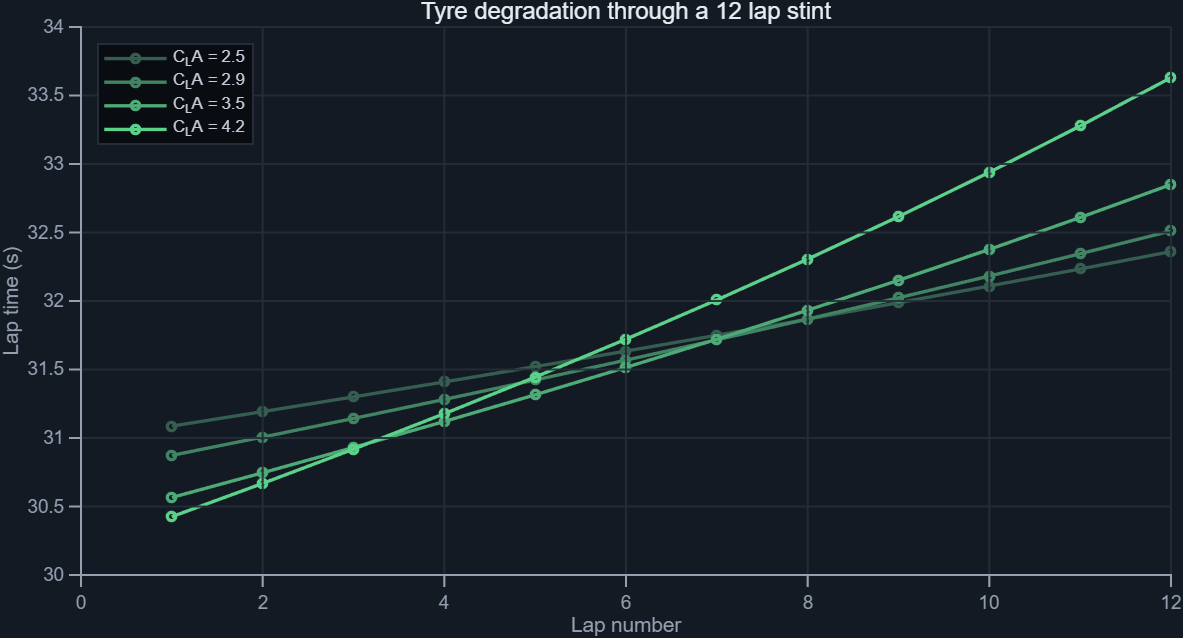
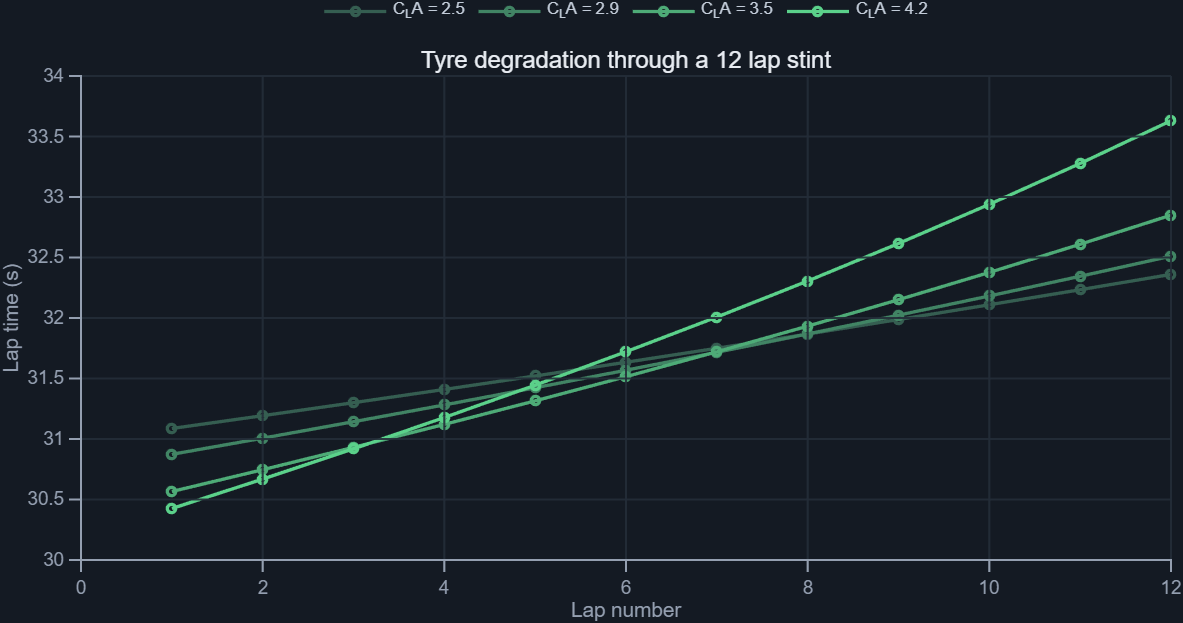
Fix coursework accent clash, move keys off the plots, new flume thumbnail
Three faults, all visible once the pages were rendered rather than
reasoned about.

Coursework accent clashed with the text
#E7E0CF sat 37 units from the body text at #E8ECF2, which is not a
distinguishable difference. On that page links, tags and the
availability bar were effectively the same colour as the prose, so the
page had no accent at all, and the Karman-Trefftz figures came out
washed out because their line colours derive from it. Replaced with a
rose, #F48FB1: 114 from the text and 89 from the nearest other accent,
clearing AA on both surfaces and for ink on the fill.

Keys sat on top of the data
The degradation chart put its legend over the scatter it described,
hiding points behind an opaque box. loc="best" does not fix this; on a
dense scatter it only finds the least-bad overlap. Legends now sit
above the axes, outside the data area, where they cannot collide and
cannot drift onto the data when the numbers change. The frame goes
with them, since outside the plot it only adds a line. Title padding
is increased wherever a key is placed, or the two overlap instead.
Same change in MATLAB via northoutside.

Flume thumbnail
It was a frame of annotated rod footage, chosen for the tracker
overlay rather than for being legible at card size, and it was murky.
Replaced with a photograph of the flume itself: water surface,
entrained bubbles, a green marker sphere mid-channel. Pulled from the
sharpest frame of the source footage, chosen on a Laplacian variance
[…]

diff --git a/index.html b/index.html
@@ -112,7 +112,7 @@
 
       <a class="card" href="flume.html">
         <div class="card-media">
-          <span class="badge ghost">Video &amp; code</span><img src="media/thumbs/flume.jpg" alt="A rod tracked through the flume, with the fitted quadrilateral and centre marker drawn by the tracker" width="800" height="450"></div>
+          <span class="badge ghost">Video &amp; code</span><img src="media/thumbs/flume.jpg" alt="Water flowing through the laboratory flume, with a green marker sphere mid-channel and bubbles entrained below the surface" width="800" height="450"></div>
         <div class="card-body">
           <h3>Tracking Plastics in Moving Water</h3>
           <p>Individual Master's research project, graded 75%. A Python and OpenCV measurement system turning high-speed footage of plastic particles into validated trajectory data, at 98.4% detection coverage and 1.5 mm positional accuracy across 58 runs. Roughly 9,400 lines of published code.</p>
@@ -200,7 +200,7 @@
 
       <a class="card" href="flume.html">
         <div class="card-media">
-          <span class="badge ghost">Video &amp; code</span><img src="media/thumbs/flume.jpg" alt="A rod tracked through the flume, with the fitted quadrilateral and centre marker drawn by the tracker" loading="lazy" width="800" height="450"></div>
+          <span class="badge ghost">Video &amp; code</span><img src="media/thumbs/flume.jpg" alt="Water flowing through the laboratory flume, with a green marker sphere mid-channel and bubbles entrained below the surface" loading="lazy" width="800" height="450"></div>
         <div class="card-body">
           <h3>Tracking Plastics in Moving Water</h3>
           <p>Individual Master's research project, graded 75%. A Python and OpenCV measurement system converting high-speed footage of plastic particles in a flume into validated trajectory and velocity data.</p>

diff --git a/style.css b/style.css
@@ -89,7 +89,7 @@
 [data-accent="fs"]         { --accent: #5BD18A; --accent-wash: rgba(91,209,138,0.10); }
 [data-accent="uav"]        { --accent: #8FA6FF; --accent-wash: rgba(143,166,255,0.10); }
 [data-accent="internship"] { --accent: #C98BFF; --accent-wash: rgba(201,139,255,0.10); }
-[data-accent="coursework"] { --accent: #E7E0CF; --accent-wash: rgba(231,224,207,0.10); }
+[data-accent="coursework"] { --accent: #F48FB1; --accent-wash: rgba(244,143,177,0.10); }
 
 html { scroll-behavior: smooth; }
 

diff --git a/code/f1-lapsim/f1_lap_model.py b/code/f1-lapsim/f1_lap_model.py
@@ -58,7 +58,7 @@ import fastf1
 import sys as _sys
 _sys.path.insert(0, str(Path(__file__).resolve().parent.parent))
 from site_palette import (P, accent, series, use_site_style, cmap_accent,
-                          cmap_diverging, shades)
+                          cmap_diverging, shades, finish, legend_above)
 use_site_style()
 
 warnings.filterwarnings("ignore")
@@ -264,14 +264,14 @@ def main():
     ax.set_ylabel("Speed (km/h)"); ax.set_ylim(0, 340)
     ax.set_title(f"{YEAR} {ses.event['EventName']}: model against measured pole lap "
                  f"({real_time:.3f} s actual, {model_time:.3f} s predicted)")
-    ax.legend(loc="lower right", fontsize=9); ax.grid(alpha=0.3)
+    legend_above(ax, ncol=3); ax.grid(alpha=0.3)
 
     ax2 = axes[1]
     ax2.plot(d, tel["Throttle"], color=series(5), lw=1.2, label="Throttle (%)")
     ax2.plot(d, tel["Brake"] * 100, color=accent("f1"), lw=1.2, label="Brake (on/off)")
     ax2.fill_between(d, 0, 100, where=(drs > 0), color=accent("site"), alpha=0.28, label="DRS open")
     ax2.set_xlabel("Distance around lap (m)"); ax2.set_ylabel("Driver inputs")
-    ax2.set_xlim(d[0], d[-1]); ax2.legend(loc="lower right", fontsize=8, ncol=3); ax2.grid(alpha=0.3)
+    ax2.set_xlim(d[0], d[-1]); legend_above(ax2, ncol=3, fontsize=8); ax2.grid(alpha=0.3)
     fig.tight_layout(); fig.savefig(FIGS / "f1-speed-trace.png", dpi=150); plt.close(fig)
 
     # ---------------- Figure 2: corner speeds + gear ----------------
@@ -282,7 +282,7 @@ def main():
     ax.bar(xs + 0.2, [v_model[i]*3.6 for i in corners], 0.4, color=accent("f1"), label="Model")
     ax.set_xticks(xs); ax.set_xticklabels([f"T{i+1}" for i in xs], fontsize=8)
     ax.set_ylabel("Apex speed (km/h)"); ax.set_title("Minimum speed, corner by corner")
-    ax.legend(fontsize=9); ax.grid(alpha=0.3, axis="y")
+    legend_above(ax, ncol=2); ax.grid(alpha=0.3, axis="y")
 
     ax = axes[1]
     sc = ax.scatter(tel["Speed"], tel["nGear"], c=tel["Throttle"], cmap=cmap_accent("f1"), s=8)

diff --git a/code/f1-lapsim/f1_stint_model.py b/code/f1-lapsim/f1_stint_model.py
@@ -50,7 +50,7 @@ import fastf1
 import sys as _sys
 _sys.path.insert(0, str(Path(__file__).resolve().parent.parent))
 from site_palette import (P, accent, series, use_site_style, cmap_accent,
-                          cmap_diverging, shades)
+                          cmap_diverging, shades, finish, legend_above)
 use_site_style()
 
 warnings.filterwarnings("ignore")
@@ -256,7 +256,7 @@ def main():
                 color=COLOURS[c], lw=2.4)
     ax.set_xlabel("Tyre age (laps)"); ax.set_ylabel("Fuel-corrected lap time (s)")
     ax.set_title("Degradation by compound, fuel effect removed")
-    ax.legend(fontsize=8); ax.grid(alpha=0.3)
+    legend_above(ax, ncol=3, fontsize=8); ax.grid(alpha=0.3)
 
     ax = axes[1]
     ages = np.arange(1, 31)
@@ -264,7 +264,7 @@ def main():
         ax.plot(ages, model["deg"][c] * ages, color=COLOURS[c], lw=2.4, label=c)
     ax.set_xlabel("Laps on the tyre"); ax.set_ylabel("Time lost to degradation (s)")
     ax.set_title("Cumulative cost of staying out")
-    ax.legend(fontsize=9); ax.grid(alpha=0.3)
+    legend_above(ax, ncol=3); ax.grid(alpha=0.3)
     fig.tight_layout(); fig.savefig(FIGS / "f1-degradation.png", dpi=150); plt.close(fig)
 
     # ---------------- Figure 2: strategy space ----------------
@@ -284,7 +284,7 @@ def main():
     ax.set_xlabel("Lap of the first pit stop")
     ax.set_ylabel("Best achievable race time, lost vs optimum (s)")
     ax.set_title("The pit window")
-    ax.set_ylim(-1, 40); ax.legend(fontsize=8.5); ax.grid(alpha=0.3)
+    ax.set_ylim(-1, 40); legend_above(ax, ncol=3, fontsize=8.5); ax.grid(alpha=0.3)
 
     ax = axes[1]
     one = table[table["stops"] == 1]["time"].min()

diff --git a/code/site_palette.py b/code/site_palette.py
@@ -111,6 +111,41 @@ def finish(ax, legend=True, loc="best"):
     return ax
 
 
+def legend_above(ax, ncol=None, fontsize=9):
+    """
+    Put the key above the plot, outside the data area.
+
+    A legend placed inside the axes competes with the thing it is labelling.
+    `loc="best"` only searches for the least-bad overlap, and on a dense
+    scatter there is no good answer: the degradation chart ended up with its
+    key sitting on top of the very points it described, hiding a corner of
+    the data behind an opaque box.
+
+    Above the axes there is nothing to collide with, the key reads before the
+    plot rather than after it, and it cannot drift onto the data when the
+    numbers change. No frame, because once it is outside the plot the box is
+    doing nothing except adding a line.
+    """
+    handles, labels = ax.get_legend_handles_labels()
+    if not handles:
+        return ax
+    # The title lives just above the axes too, so make room for the key
+    # between them. Without this they are drawn on top of each other.
+    if ax.get_title():
+        ax.set_title(ax.get_title(), pad=26)
+    lg = ax.legend(
+        handles, labels,
+        loc="lower left", bbox_to_anchor=(0.0, 1.015),
+        ncol=ncol or min(len(handles), 4),
+        frameon=False, fontsize=fontsize,
+        handlelength=1.8, columnspacing=1.4, handletextpad=0.6,
+        borderaxespad=0.0,
+    )
+    for t in lg.get_texts():
+        t.set_color(P["body"])
+    return ax
+
+
 def cmap_accent(name="site", n=256):
     """
     Sequential ramp from a dim step to the page accent.

diff --git a/code/lap_time_simulation.m b/code/lap_time_simulation.m
@@ -246,7 +246,7 @@ plot(ax1, clAs(iq), quick(iq), 'o','MarkerSize',9,'LineWidth',1.6,'Color',P.acce
 plot(ax1, clAs(ir), race(ir),  's','MarkerSize',9,'LineWidth',1.6,'Color',P.accent.f1,'HandleVisibility','off');
 xlabel(ax1,'Downforce level, C_LA'); ylabel(ax1,'Lap time (s)');
 title(ax1, sprintf('Downforce: quick lap optimum %.2f, race optimum %.2f', clAs(iq), clAs(ir)));
-legend(ax1,'Location','north');
+legend(ax1,'Location','northoutside','Orientation','horizontal');
 
 ax2 = nexttile(t); hold(ax2,'on'); grid(ax2,'on'); box(ax2,'on');
 plot(ax2, masses, mTimes, '-o','LineWidth',1.6,'MarkerSize',4,'Color',P.accent.fs);
@@ -273,7 +273,7 @@ for i = 1:numel(levels)
 end
 xlabel(ax,'Lap number'); ylabel(ax,'Lap time (s)');
 title(ax,'Tyre degradation through a 12 lap stint');
-legend(ax,'Location','northwest');
+legend(ax,'Location','northoutside','Orientation','horizontal');
 siteAxes(ax, P);
 exportgraphics(f, fullfile(outDir(),'lapsim-degradation.png'), 'Resolution', 150);
 close(f);

diff --git a/code/siteAxes.m b/code/siteAxes.m
@@ -33,9 +33,11 @@ function siteAxes(ax, P)
     ax.Title.FontWeight = 'normal';
     ax.Title.FontSize   = 11.5;
 
+    % Legends sit outside the axes, so they cannot land on the data. Once
+    % outside, the surrounding box is doing nothing but adding a line.
     lg = get(ax, 'Legend');
     if ~isempty(lg)
-        set(lg, 'Color', P.sunken, 'TextColor', P.body, ...
-                'EdgeColor', P.border, 'Box', 'on');
+        set(lg, 'Color', 'none', 'TextColor', P.body, ...
+                'EdgeColor', 'none', 'Box', 'off');
     end
 end
